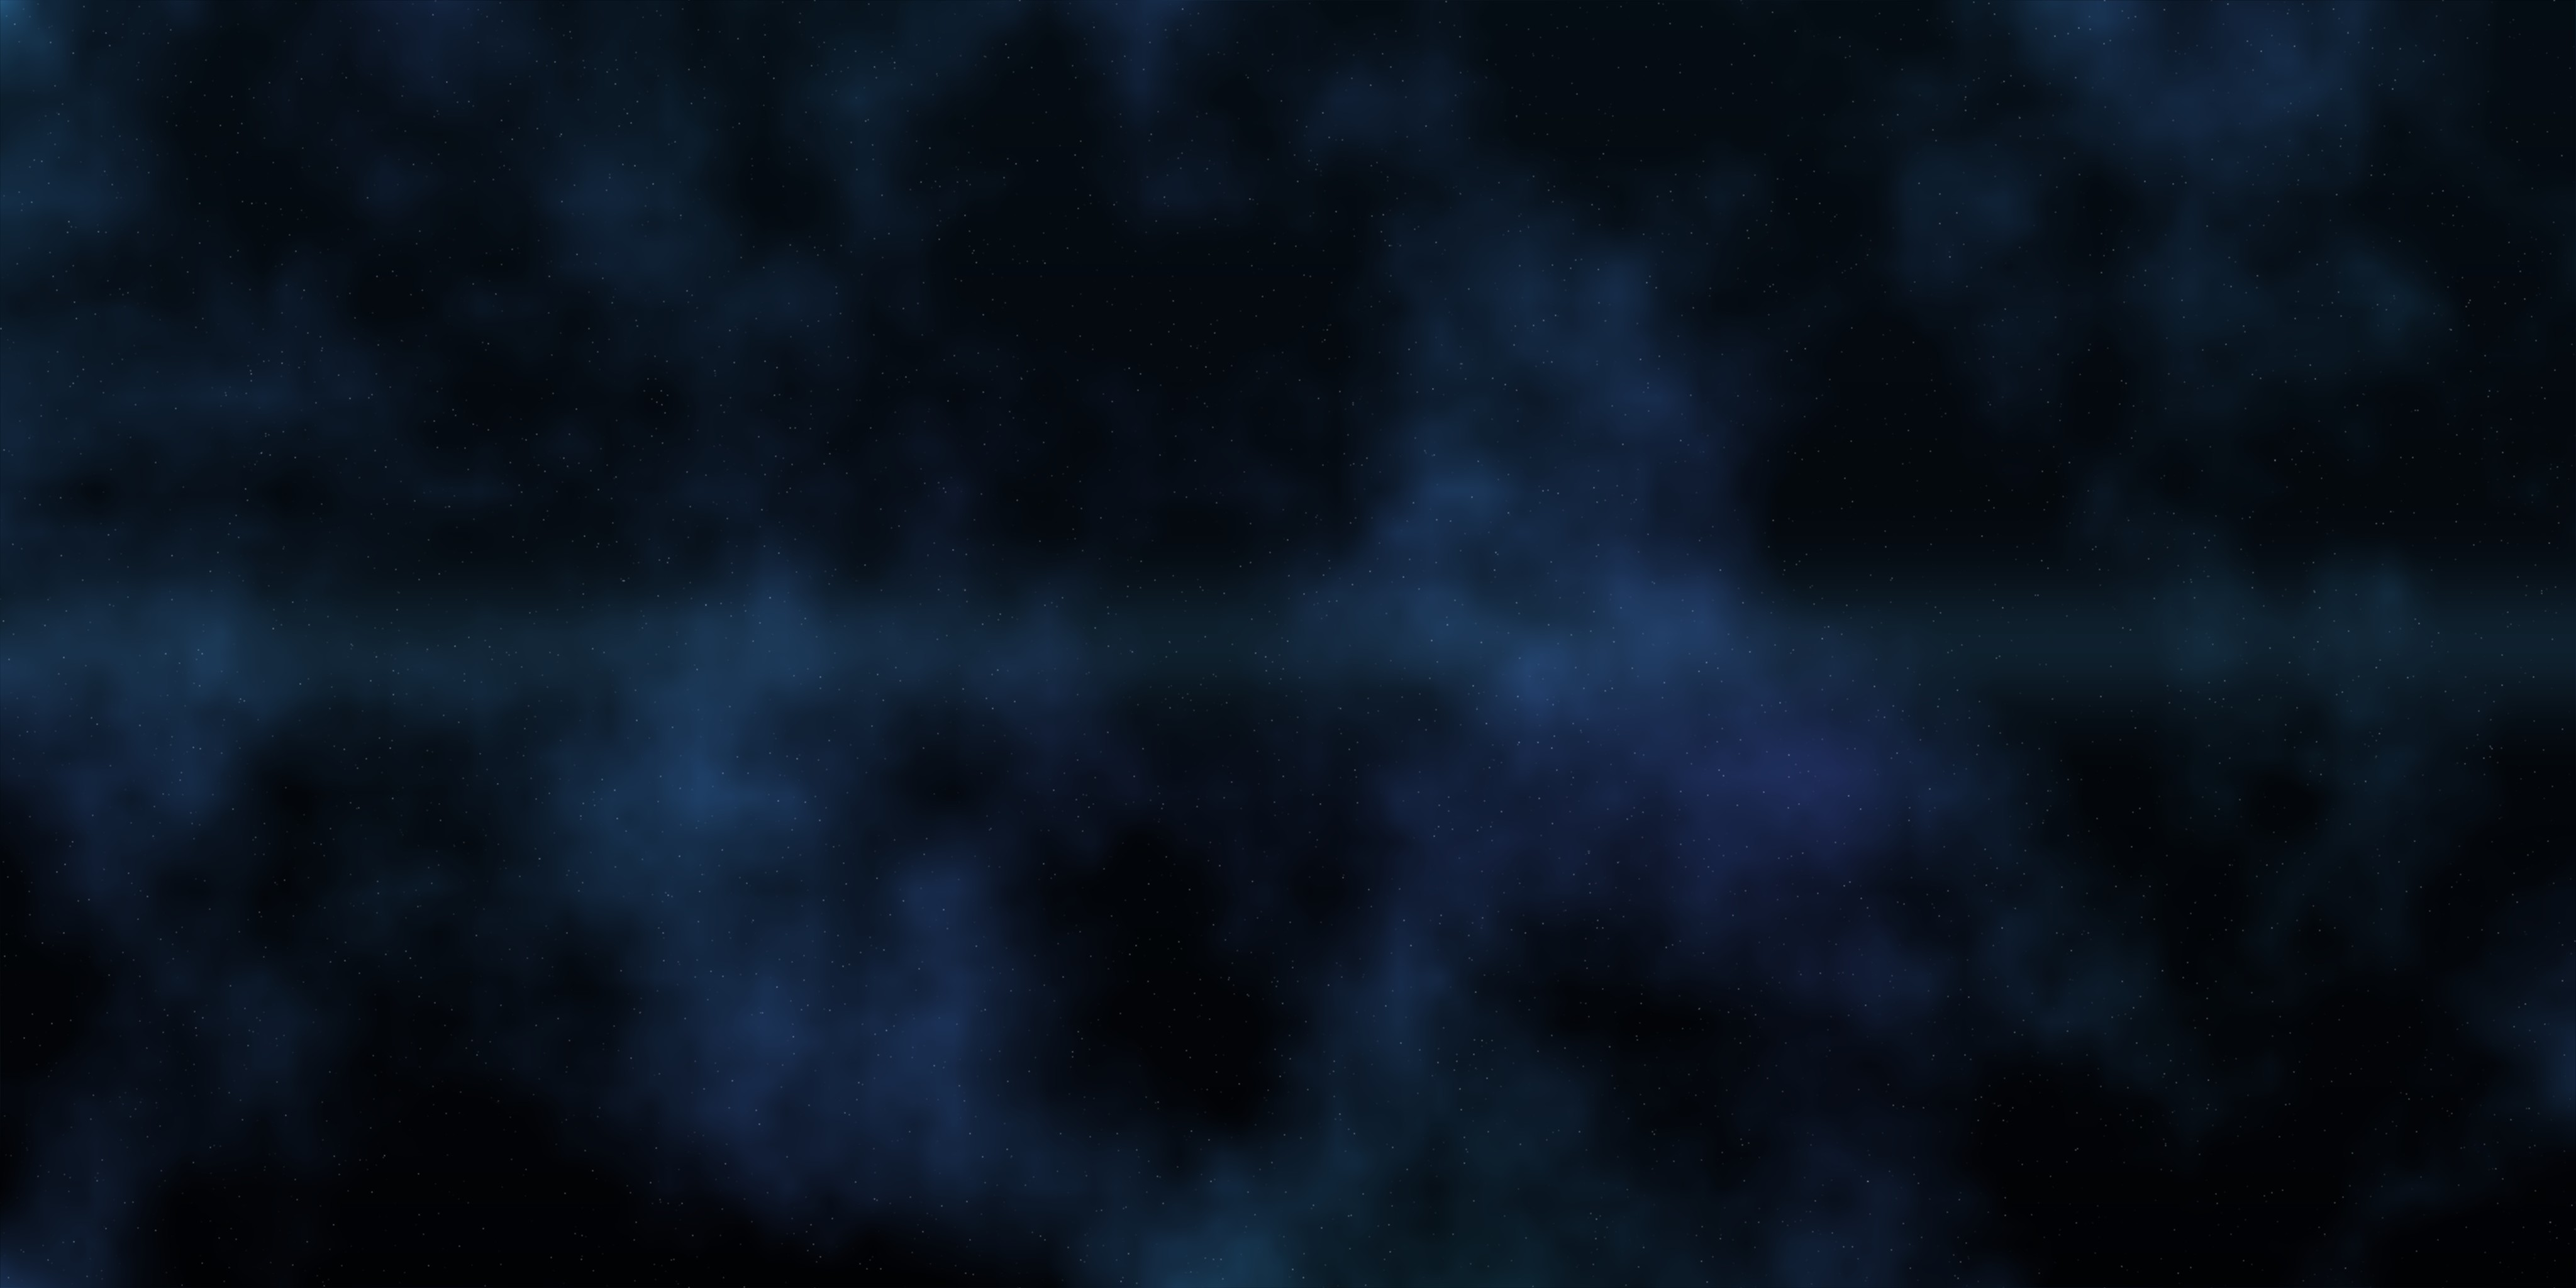
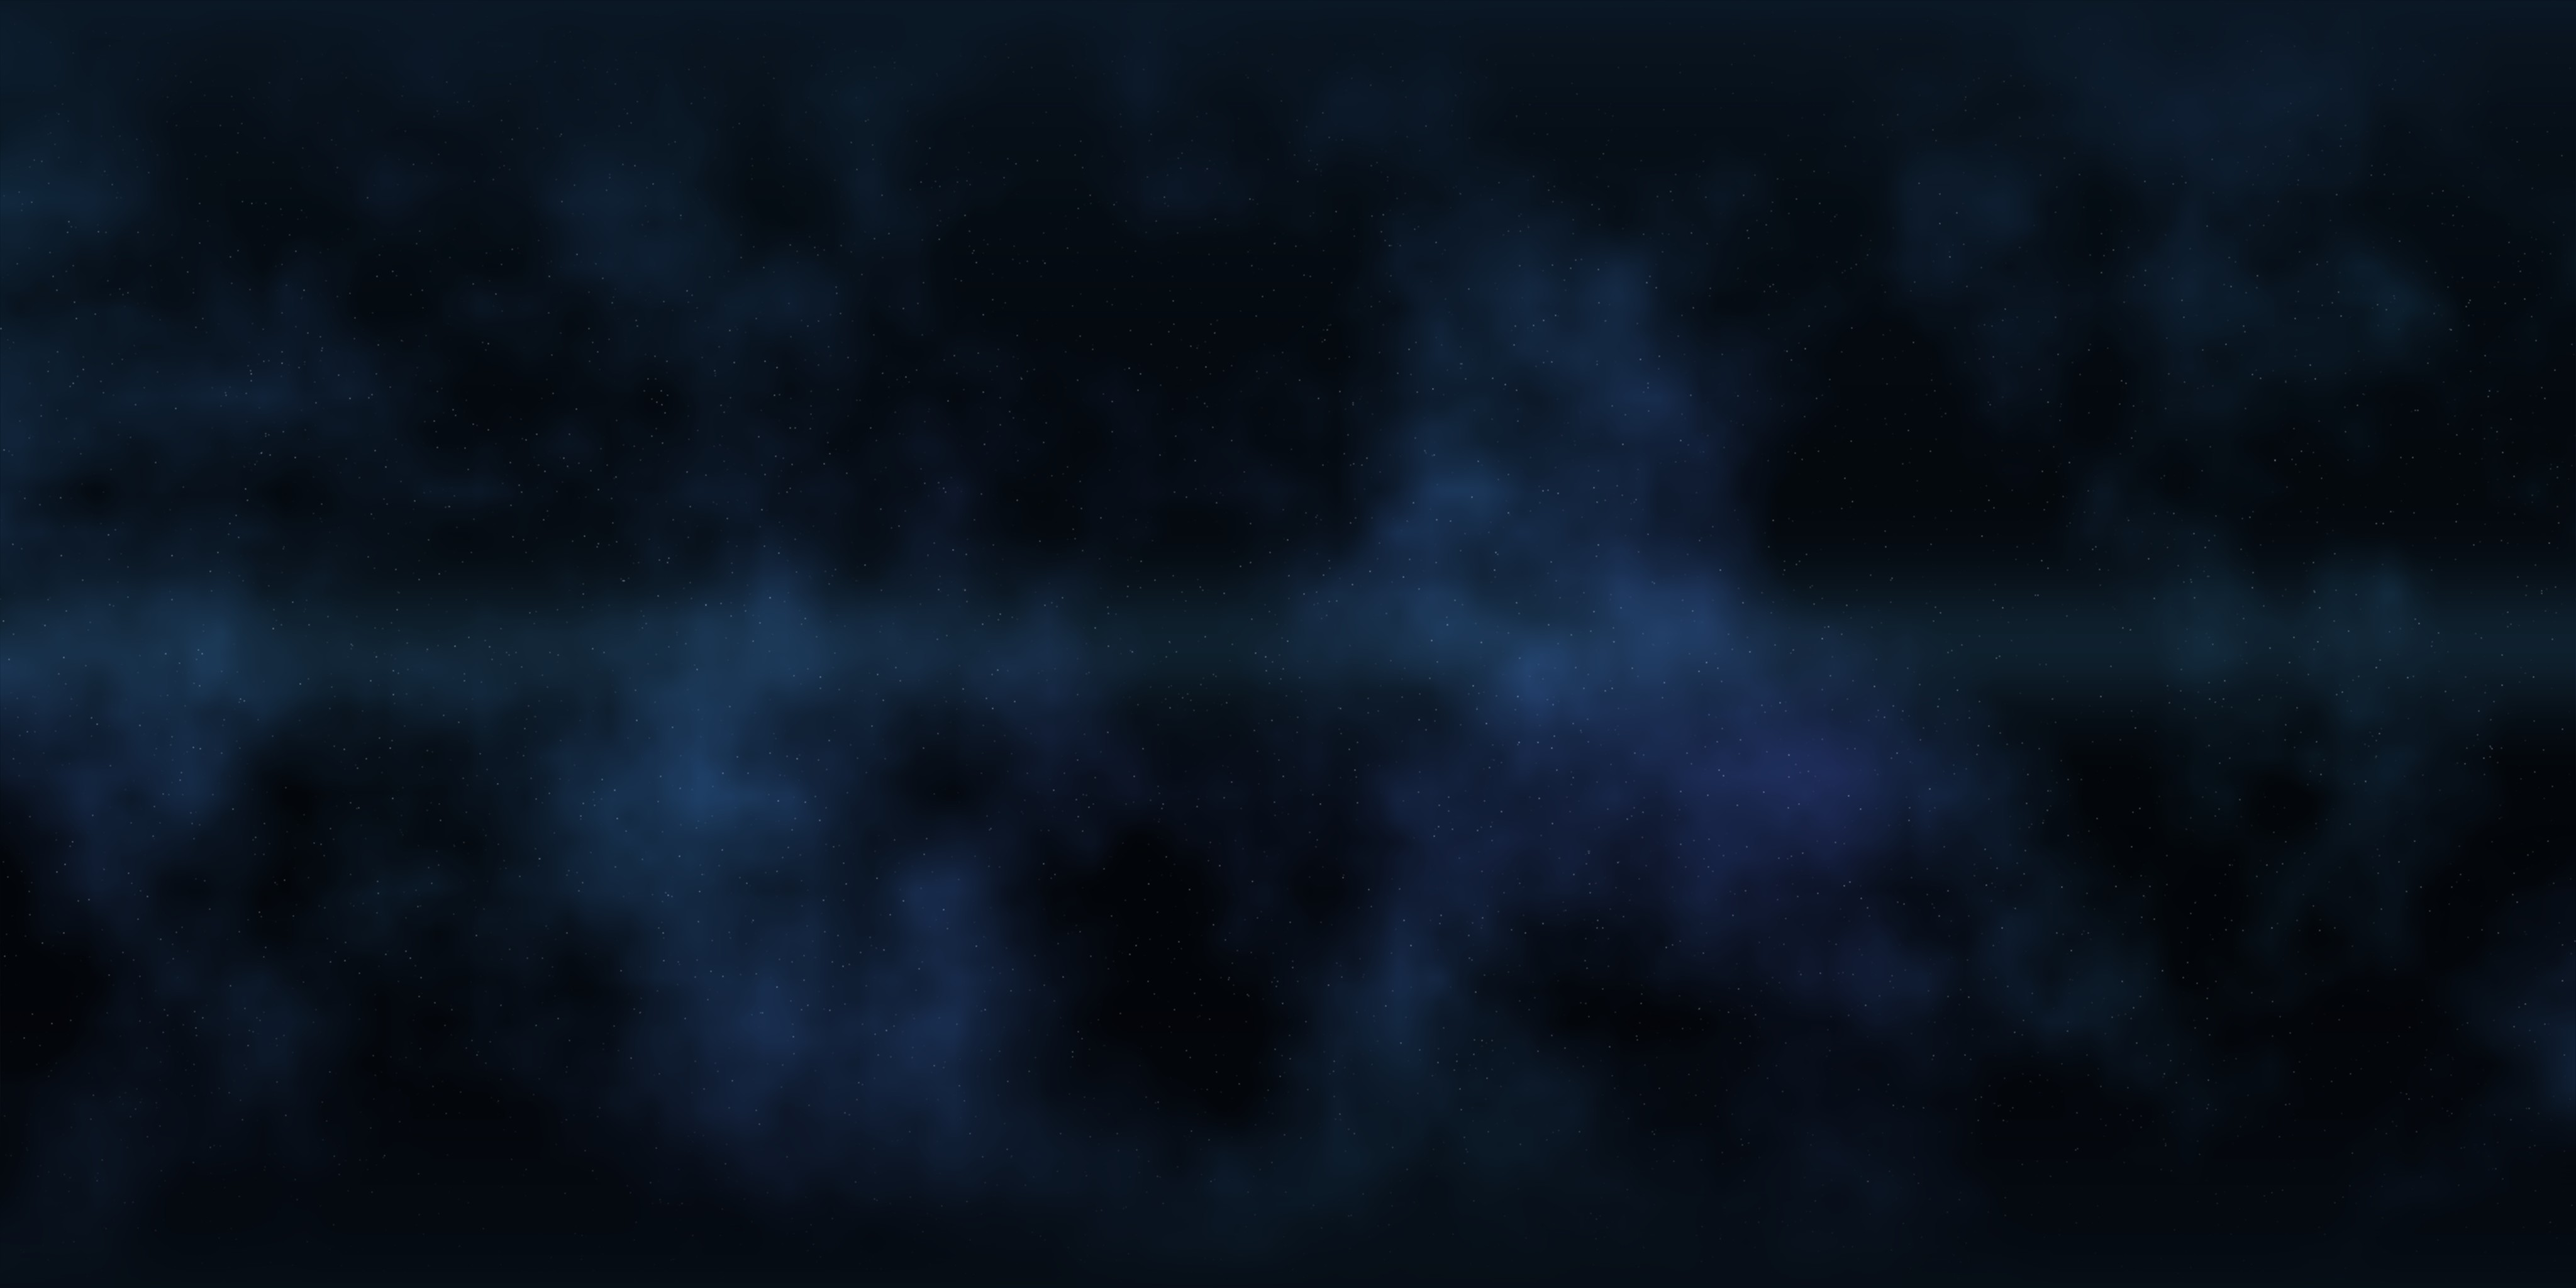
fix: 去掉天顶的放射状条纹
等距圆柱贴图的极点奇点：横向的星云噪声在天顶收束成一个点，
被压成从中心发散的扇形条纹，抬头看非常刺眼。

两次没修对的弯路，记下来：
1. 先试「让结构项在 v<0.22 淡出」—— 条纹还在，因为极点附近窄窄几条 v
   对应巨大的角面积，30% 的残余结构依然清楚可见。
2. 改成「按行收敛到经度均值」后仍然没效果，量了贴图才发现顶部行方差
   还是 0.0415 —— 因为 img.pixels 第一行是图像【底部】，我压的是天底。

最终解法：横向噪声环绕闭合 + 两端都按行收敛到经度均值。
实测顶部行 std_x 0.0415 → 0.0018，底部 0.0026，赤道 0.0389（结构保留）。

另加 ?pitch= 便于取仰视机位。

diff --git a/viewer/space.js b/viewer/space.js
@@ -396,7 +396,7 @@ function renderReflection() {
 }
 
 // ── 极简操作：拖动环顾 + WASD 平移 + Q/E 升降 ──────────────
-let yaw = 0, pitch = 0, dragging = false, lastX = 0, lastY = 0;
+let yaw = 0, pitch = Number(q.get('pitch') ?? 0), dragging = false, lastX = 0, lastY = 0;
 let camY = Number(q.get('y') ?? 3.0);      // 眼高，默认 3.0（spec §4）
 const keys = Object.create(null);
 

diff --git a/tools/blender/space_scene.py b/tools/blender/space_scene.py
@@ -253,7 +253,7 @@ def make_sky(path, seed, W=4096, H=2048):
         ys = np.linspace(0, gh - 1, H)
         xs = np.linspace(0, gw - 1, W)
         y0 = np.floor(ys).astype(int); y1 = np.minimum(y0 + 1, gh - 1)
-        x0 = np.floor(xs).astype(int); x1 = np.minimum(x0 + 1, gw - 1)
+        x0 = np.floor(xs).astype(int); x1 = (x0 + 1) % gw   # 横向环绕，去掉 u=0/1 接缝
         fy = (ys - y0)[:, None]; fx = (xs - x0)[None, :]
         top = g[y0][:, x0] * (1 - fx) + g[y0][:, x1] * fx
         bot = g[y1][:, x0] * (1 - fx) + g[y1][:, x1] * fx
@@ -275,7 +275,12 @@ def make_sky(path, seed, W=4096, H=2048):
     indigo = np.array([0.070, 0.090, 0.200])
     mix = np.clip(value_noise(4, 8), 0, 1)[..., None]
     neb = teal[None, None, :] * mix + indigo[None, None, :] * (1 - mix)
-    sky = base + neb * mask[..., None] * 2.2
+
+    # 极点遮蔽：equirect 在天顶/天底会把横向结构压成放射状条纹（后面还会按行均值收敛）
+    # 注意 Blender 的 img.pixels 是从底部存的，数组第 0 行最终是图像底部，
+    # 所以两端都要处理，不能只压 v->0 那一头。
+    polar = np.maximum(np.clip(v / 0.22, 0, 1), np.clip((1.0 - v) / 0.22, 0, 1)) ** 1.6
+    sky = base + neb * mask[..., None] * 2.2 * polar[..., None]
 
     # 星点
     n = 16000
@@ -294,6 +299,17 @@ def make_sky(path, seed, W=4096, H=2048):
     pad = np.pad(sky, ((1, 1), (1, 1), (0, 0)), mode="wrap")
     sky = sum(k[i, j] * pad[i:i + H, j:j + W] for i in range(3) for j in range(3))
 
+    sky = np.clip(sky, 0, 1)
+
+    # 极点收敛：天顶处所有经线收束到一点，一个像素代表的立体角极小，
+    # 正确的值就是该行沿经度的平均。不做这一步，横向的星云与星点
+    # 会被压成从一个点发散的放射条纹。
+    rowmean = sky.mean(axis=1, keepdims=True)
+    w = np.maximum(
+        np.clip(1.0 - v / 0.32, 0.0, 1.0),
+        np.clip(1.0 - (1.0 - v) / 0.32, 0.0, 1.0),
+    ) ** 2.2
+    sky = sky * (1.0 - w[..., None]) + rowmean * w[..., None]
     sky = np.clip(sky, 0, 1)
     # sRGB → 线性，Blender 保存时会再编码回 sRGB
     lin = np.where(sky <= 0.04045, sky / 12.92, ((sky + 0.055) / 1.055) ** 2.4)

diff --git a/tools/blender/README.md b/tools/blender/README.md
@@ -100,6 +100,14 @@ cc16e027…  out/b/sky.jpg
 5. `export_materials='NONE'`，否则 120 张封面会被打进 glb。
 6. 画框朝向：平面先绕 X 转 90° 立起来，再绕 Z 转 `atan2(dx, -dy)`（法线 -Y 朝相机）。
 7. `image.pixels` 是线性缓冲：生成 sRGB 颜色后先转线性再写入，Blender 保存时会再编码。
+8. **`img.pixels` 的第一行是图像底部**，不是顶部。写数组时不做翻转就会整张图上下颠倒——
+   这个坑会连带影响下面第 9 条（极点遮蔽打到了天底而不是天顶）。
+9. **equirect 天顶/天底会出现放射状条纹**：横向的星云噪声在极点收束成一点，被压成扇形。
+   只做"结构淡出"不够（试过，条纹还在）；正确做法是**按行收敛到该行的经度均值**，
+   因为极点处一个像素代表的立体角极小，正确值本来就是沿经度的平均。
+   **两端都要处理**——见第 8 条，`pixels` 的底部优先存储会让只压 `v→0` 的写法打到天底去。
+   实测验证方式：用 Blender 载入 jpg，量顶部/底部若干行的横向 `std`，
+   收敛后应从 0.04 降到 0.002 量级，而赤道行（v=0.5）保持 0.039。
 
 ## 给网页端的约定
 
